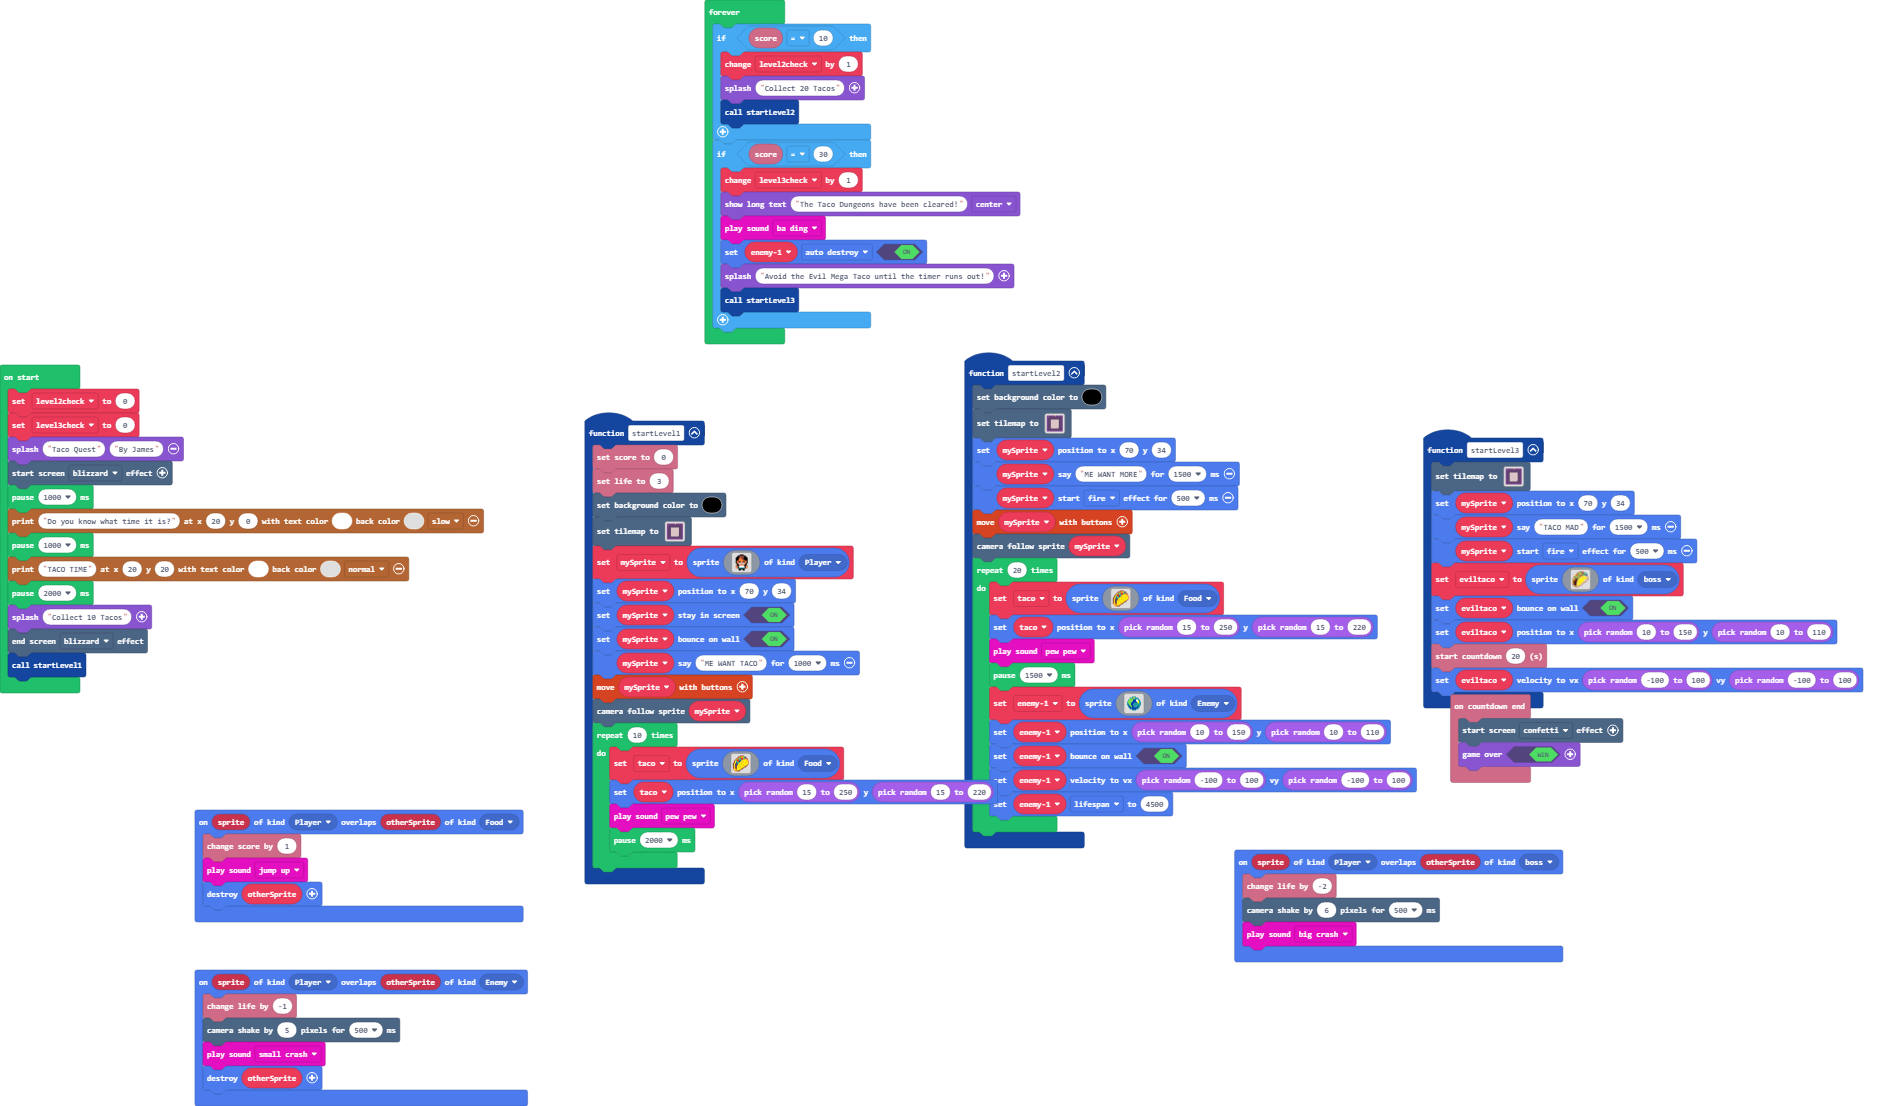
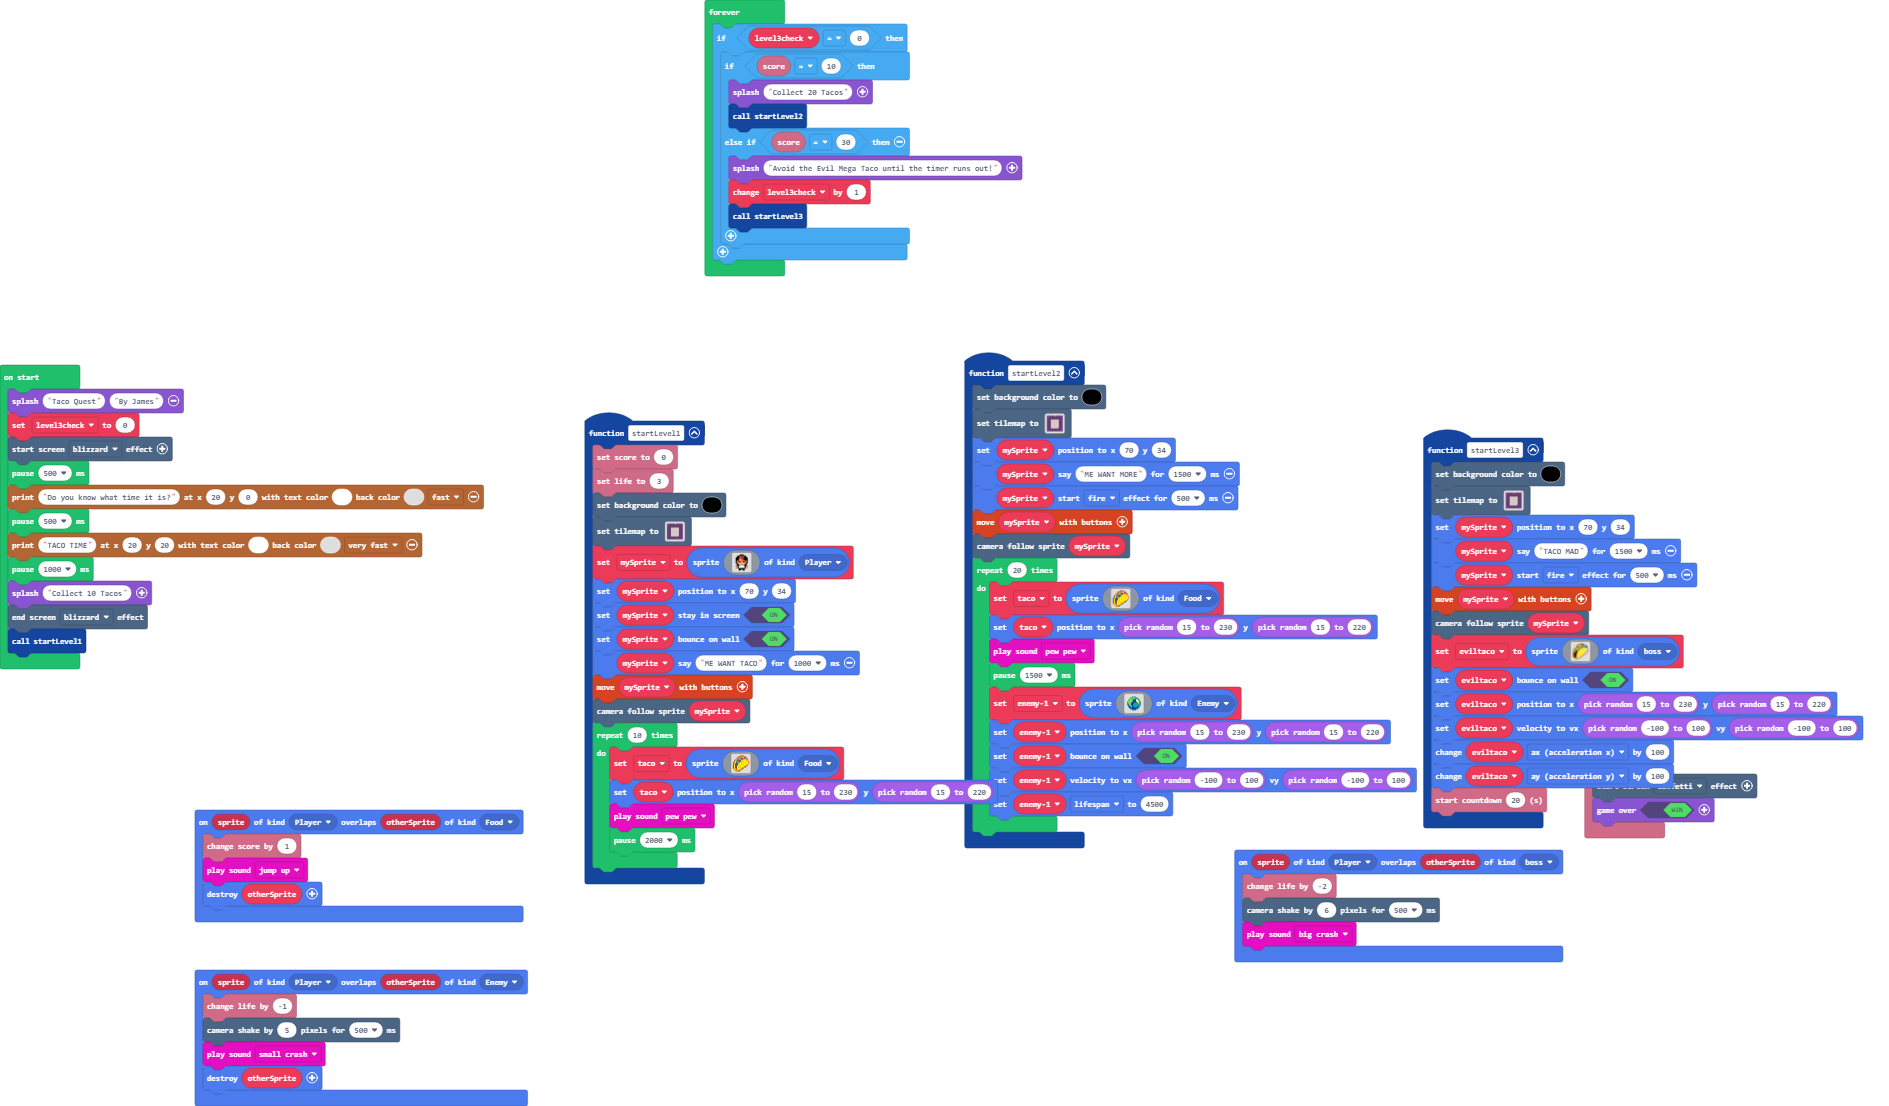
more fixes

Changed region(s): [[0.7496, 0.3996, 0.9995, 0.7685], [0.0, 0.3382, 0.2811, 0.6456], [0.3748, 0.0, 0.5622, 0.3382]]

diff --git a/main.ts b/main.ts
@@ -54,7 +54,7 @@ function startLevel1 () {
             . 4 5 4 5 5 4 e . . . . . . . . 
             . . 4 4 e e e . . . . . . . . . 
             `, SpriteKind.Food)
-        taco.setPosition(randint(15, 250), randint(15, 220))
+        taco.setPosition(randint(15, 230), randint(15, 220))
         music.pewPew.play()
         pause(2000)
     }
@@ -90,7 +90,7 @@ function startLevel2 () {
             . 4 5 4 5 5 4 e . . . . . . . . 
             . . 4 4 e e e . . . . . . . . . 
             `, SpriteKind.Food)
-        taco.setPosition(randint(15, 250), randint(15, 220))
+        taco.setPosition(randint(15, 230), randint(15, 220))
         music.pewPew.play()
         pause(1500)
         enemy1 = sprites.create(img`
@@ -111,7 +111,7 @@ function startLevel2 () {
             . . . . . . 6 6 6 6 . . . . . . 
             . . . . . . . . . . . . . . . . 
             `, SpriteKind.Enemy)
-        enemy1.setPosition(randint(10, 150), randint(10, 110))
+        enemy1.setPosition(randint(15, 230), randint(15, 220))
         enemy1.setBounceOnWall(true)
         enemy1.setVelocity(randint(-100, 100), randint(-100, 100))
         enemy1.lifespan = 4500
@@ -123,10 +123,13 @@ sprites.onOverlap(SpriteKind.Player, SpriteKind.Food, function (sprite, otherSpr
     otherSprite.destroy()
 })
 function startLevel3 () {
+    scene.setBackgroundColor(15)
     tiles.setTilemap(tilemap`level1`)
     mySprite.setPosition(70, 34)
     mySprite.say("TACO MAD", 1500)
     mySprite.startEffect(effects.fire, 500)
+    controller.moveSprite(mySprite)
+    scene.cameraFollowSprite(mySprite)
     eviltaco = sprites.create(img`
         ..............eeeeeee...........
         ............ee455662e2e.........
@@ -162,9 +165,11 @@ function startLevel3 () {
         ................................
         `, SpriteKind.boss)
     eviltaco.setBounceOnWall(true)
-    eviltaco.setPosition(randint(10, 150), randint(10, 110))
-    info.startCountdown(20)
+    eviltaco.setPosition(randint(15, 230), randint(15, 220))
     eviltaco.setVelocity(randint(-100, 100), randint(-100, 100))
+    eviltaco.ax += 100
+    eviltaco.ay += 100
+    info.startCountdown(20)
 }
 sprites.onOverlap(SpriteKind.Player, SpriteKind.Enemy, function (sprite, otherSprite) {
     info.changeLifeBy(-1)
@@ -176,30 +181,26 @@ let eviltaco: Sprite = null
 let enemy1: Sprite = null
 let taco: Sprite = null
 let mySprite: Sprite = null
-let level2check = 0
-let level3check = 0
 game.splash("Taco Quest", "By James")
+let level3check = 0
 effects.blizzard.startScreenEffect()
+pause(500)
+story.printText("Do you know what time it is?", 20, 0, 1, 0, story.TextSpeed.Fast)
+pause(500)
+story.printText("TACO TIME", 20, 20, 1, 0, story.TextSpeed.VeryFast)
 pause(1000)
-story.printText("Do you know what time it is?", 20, 0, 1, 0, story.TextSpeed.Slow)
-pause(1000)
-story.printText("TACO TIME", 20, 20, 1, 0, story.TextSpeed.Normal)
-pause(2000)
 game.splash("Collect 10 Tacos")
 effects.blizzard.endScreenEffect()
 startLevel1()
 forever(function () {
-    if (info.score() == 10) {
-        level2check += 1
-        game.splash("Collect 20 Tacos")
-        startLevel2()
-    }
-    if (info.score() == 30) {
-        level3check += 1
-        game.showLongText("The Taco Dungeons have been cleared!", DialogLayout.Center)
-        music.baDing.play()
-        enemy1.setFlag(SpriteFlag.AutoDestroy, true)
-        game.splash("Avoid the Evil Mega Taco until the timer runs out!")
-        startLevel3()
+    if (level3check == 0) {
+        if (info.score() == 10) {
+            game.splash("Collect 20 Tacos")
+            startLevel2()
+        } else if (info.score() == 30) {
+            game.splash("Avoid the Evil Mega Taco until the timer runs out!")
+            level3check += 1
+            startLevel3()
+        }
     }
 })
